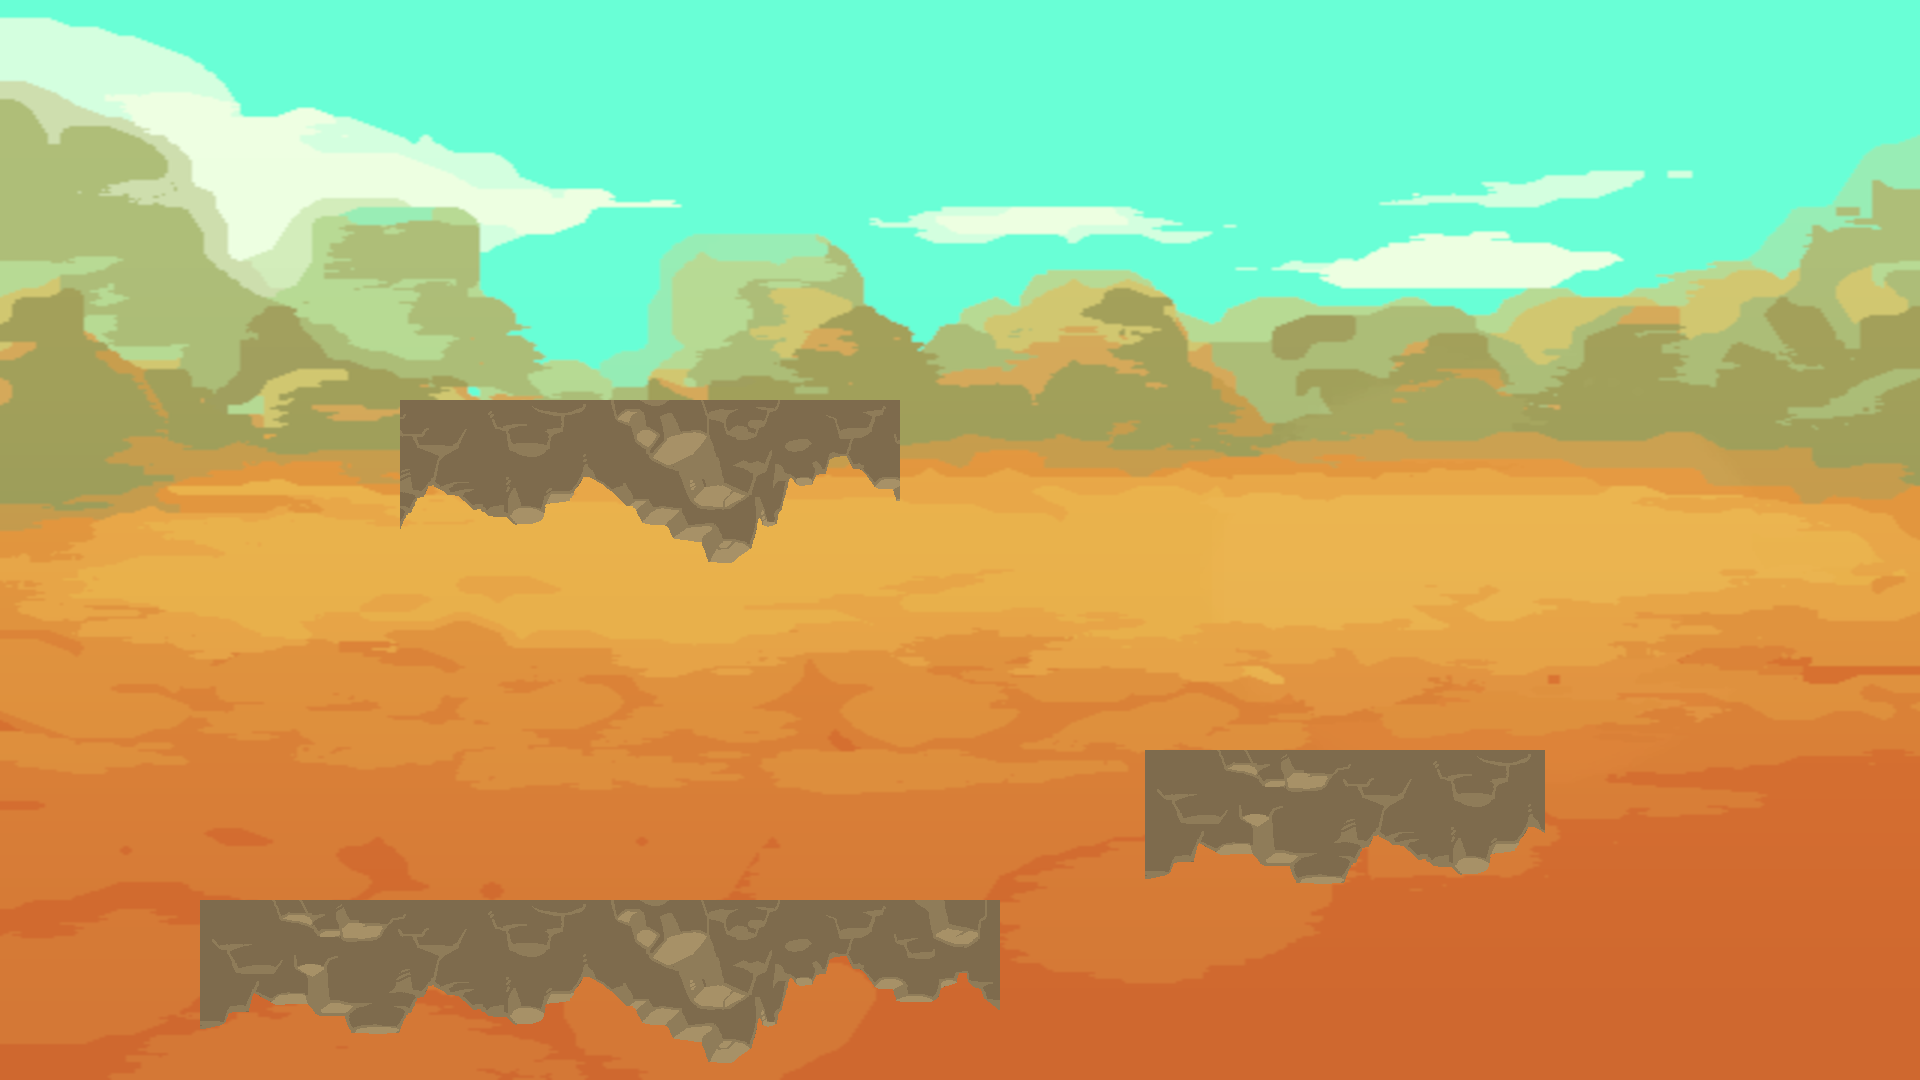
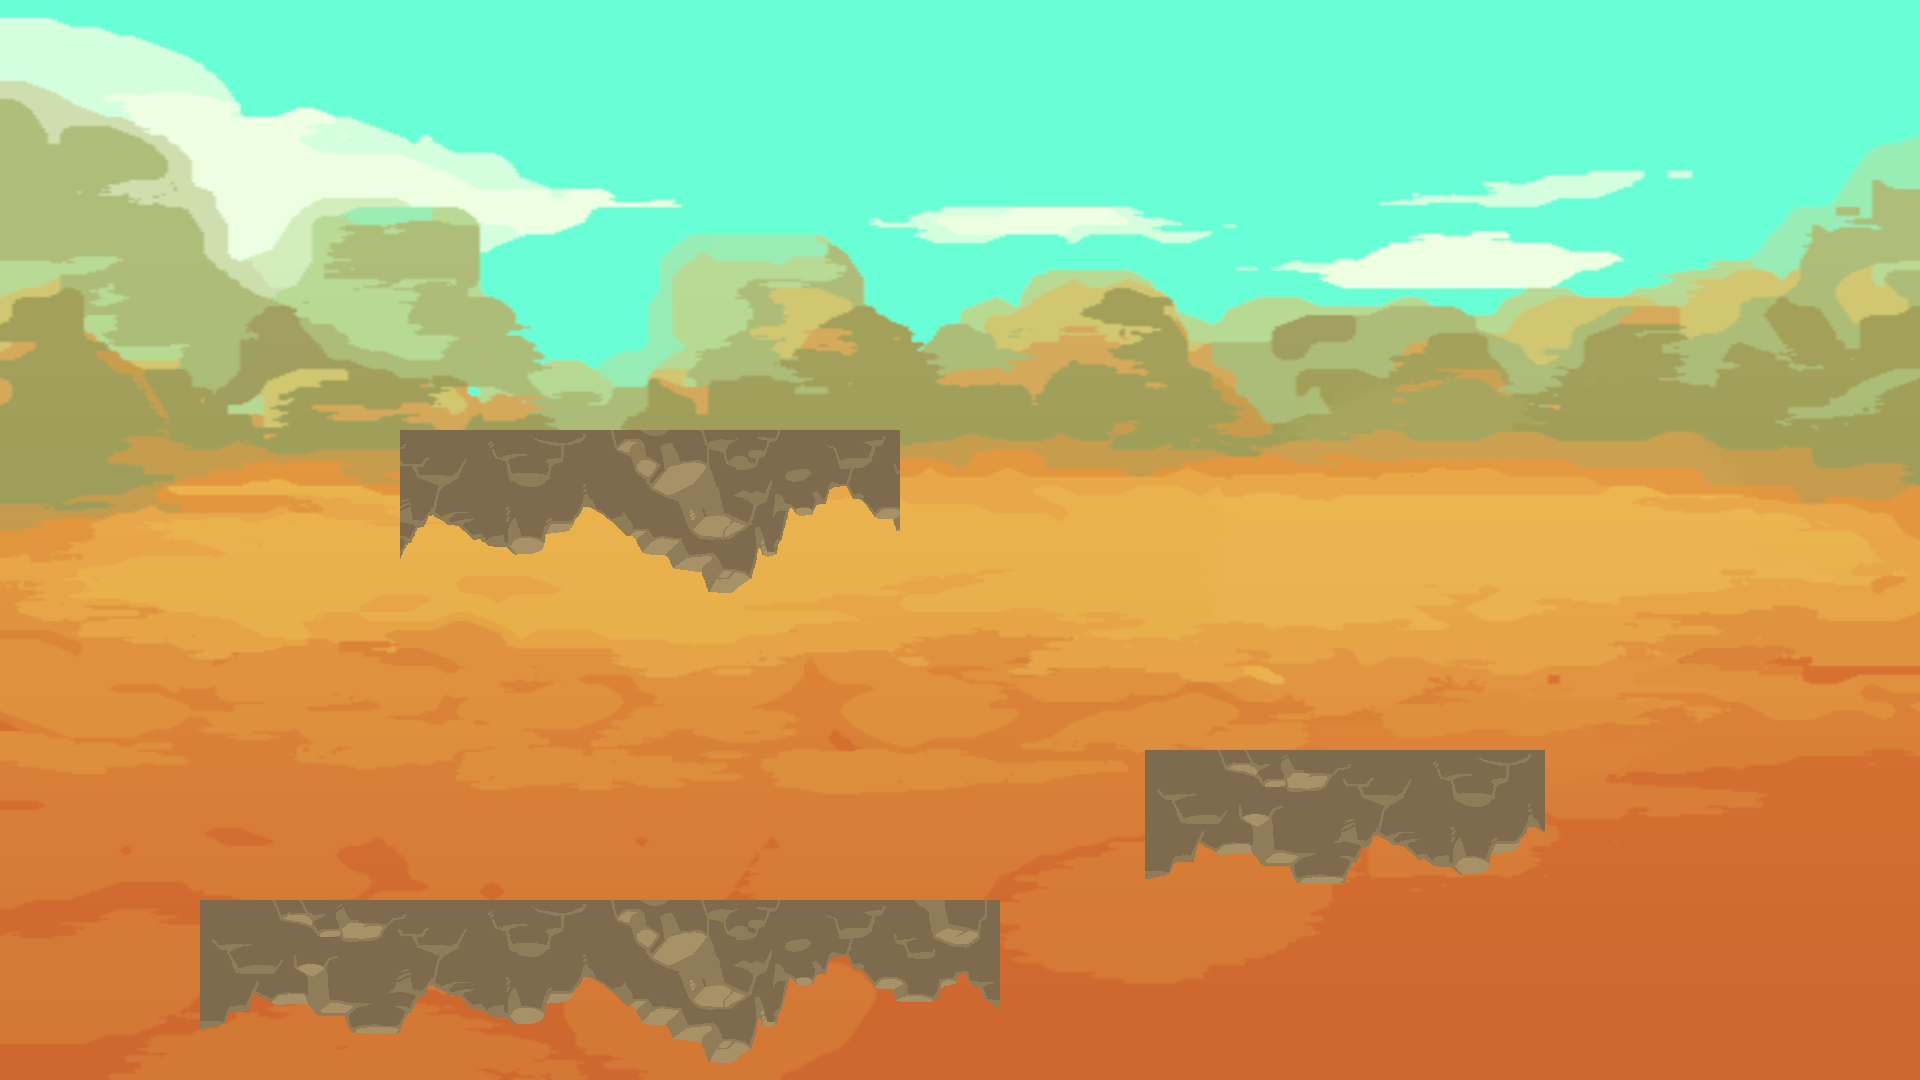
implement double jump

Changed region(s): [[0.1875, 0.3667, 0.4688, 0.55]]

diff --git a/src/player.cpp b/src/player.cpp
@@ -13,7 +13,7 @@ Player::Player(std::string name) : GameObject(0, 0, CFG_CHARACTER_WIDTH, CFG_CHA
     this->name = name;
     this->velocity.x = 0;
     this->velocity.y = 0;
-    this->ableJump = false;
+    this->jumpPower = 0;
     /* Add body of character */
     this->body = std::make_shared<DebugRectangle>(
         this->x, this->y, this->width, this->height, sf::Color(0, 255, 0, 100));
@@ -140,11 +140,11 @@ void Player::moveRight()
 void Player::jump()
 {
     // DEBUG_PRINT(this->name);
-    if (this->ableJump)
+    if (this->jumpPower > 0)
     {
-        this->velocity.y -= sqrtf(2.0f * CFG_GRAVITATION_ACCELERATION * CFG_CHARACTER_JUMP_HEIGHT);
+        this->velocity.y = -sqrtf(2.0f * CFG_GRAVITATION_ACCELERATION * CFG_CHARACTER_JUMP_HEIGHT);
         this->character->jump();
-        this->ableJump = false;
+        this->jumpPower -= 1;
     }
 }
 
@@ -274,7 +274,7 @@ void Player::update(float deltaTime, std::vector<std::shared_ptr<GameObject>> ob
             if (pushBack.y < 0)
             {
                 this->velocity.y = 0;
-                this->ableJump = true;
+                this->jumpPower = 2; // Double jump
             }
         }
     }

diff --git a/src/game.cpp b/src/game.cpp
@@ -151,7 +151,8 @@ void Game::update(float deltaTime)
     for (auto &p : this->playerList)
     {
         // Player will be death if moving outside of the screen
-        if (!sf::FloatRect(0, 0, SCREEN_WIDTH, SCREEN_HEIGHT).contains(p->getPosition()))
+        // Double screen height for better experience
+        if (!sf::FloatRect(0, -SCREEN_HEIGHT, SCREEN_WIDTH, SCREEN_HEIGHT * 2).contains(p->getPosition()))
         {
             // DEBUG_PRINT("Player is outside");
             p->beKilled();

diff --git a/src/gamecfg.hpp b/src/gamecfg.hpp
@@ -10,7 +10,7 @@
 // Common character config
 #define CFG_CHARACTER_HEALTH 100
 #define CFG_CHARACTER_WIDTH 80.0f
-#define CFG_CHARACTER_HEIGHT 150.0f
+#define CFG_CHARACTER_HEIGHT 112.0f
 #define CFG_CHARACTER_ACCELERATION 300.0f
 #define CFG_CHARACTER_SPEED (300.0f)
 #define CFG_CHARACTER_JUMP_HEIGHT (1.5f * CFG_CHARACTER_HEIGHT)

diff --git a/src/player.hpp b/src/player.hpp
@@ -69,7 +69,7 @@ private:
 
     // User input keys will be recorded here. Then update in update() function
     sf::Vector2f velocity;
-    bool ableJump;
+    int jumpPower;
 
     std::shared_ptr<Character> character;
     std::shared_ptr<DebugRectangle> body; // Body is used to detect hit region when a player is hit/attacked.

diff --git a/README.md b/README.md
@@ -31,7 +31,7 @@ GameObject
    |        
    |--- Grid
    |
-   |--- eMap
+   |--- Map
 ```
 
 ## Player
